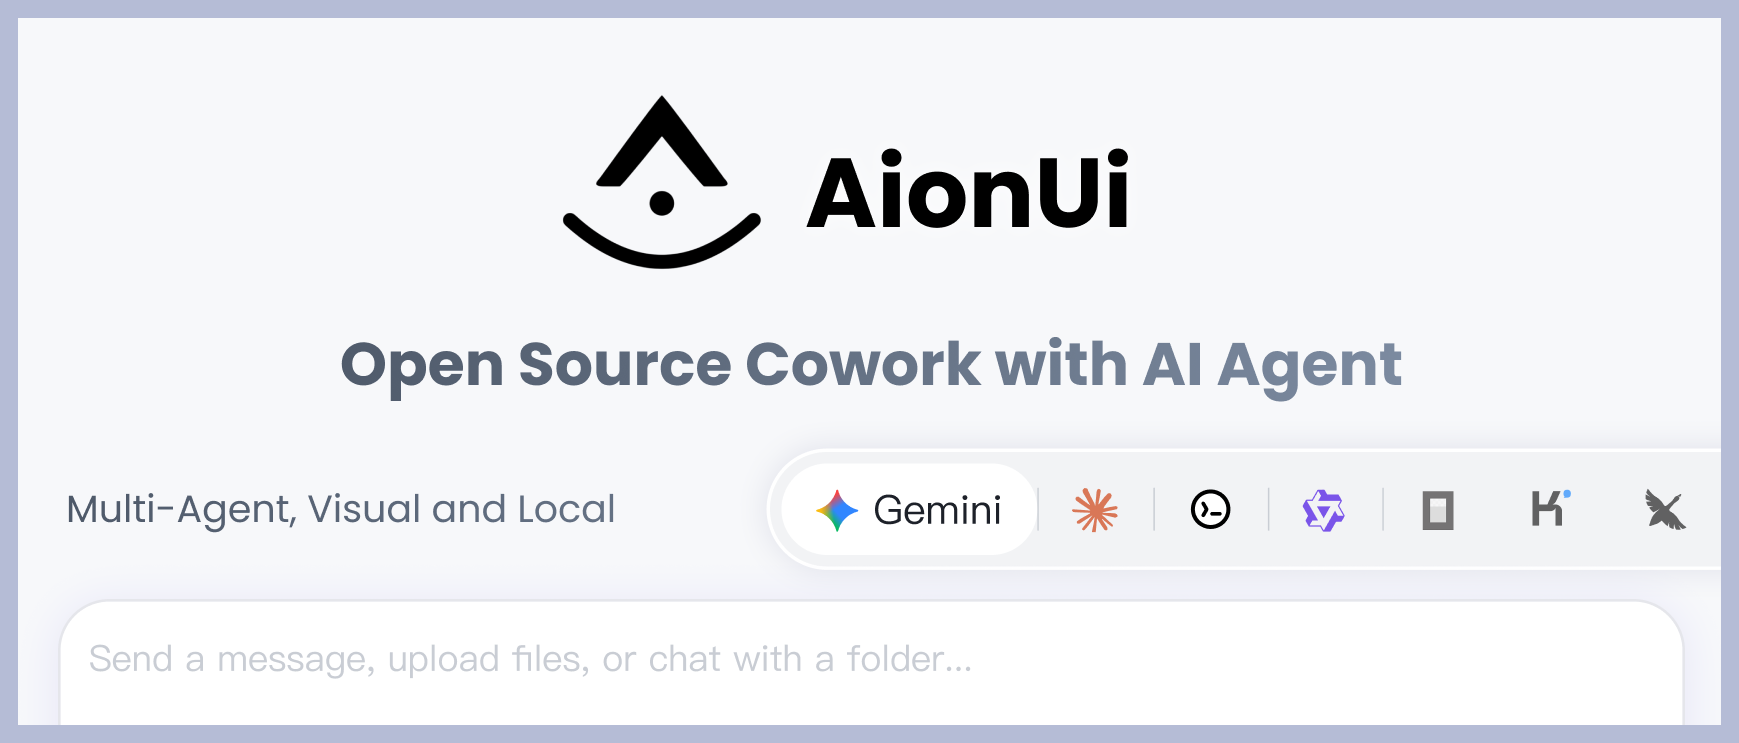
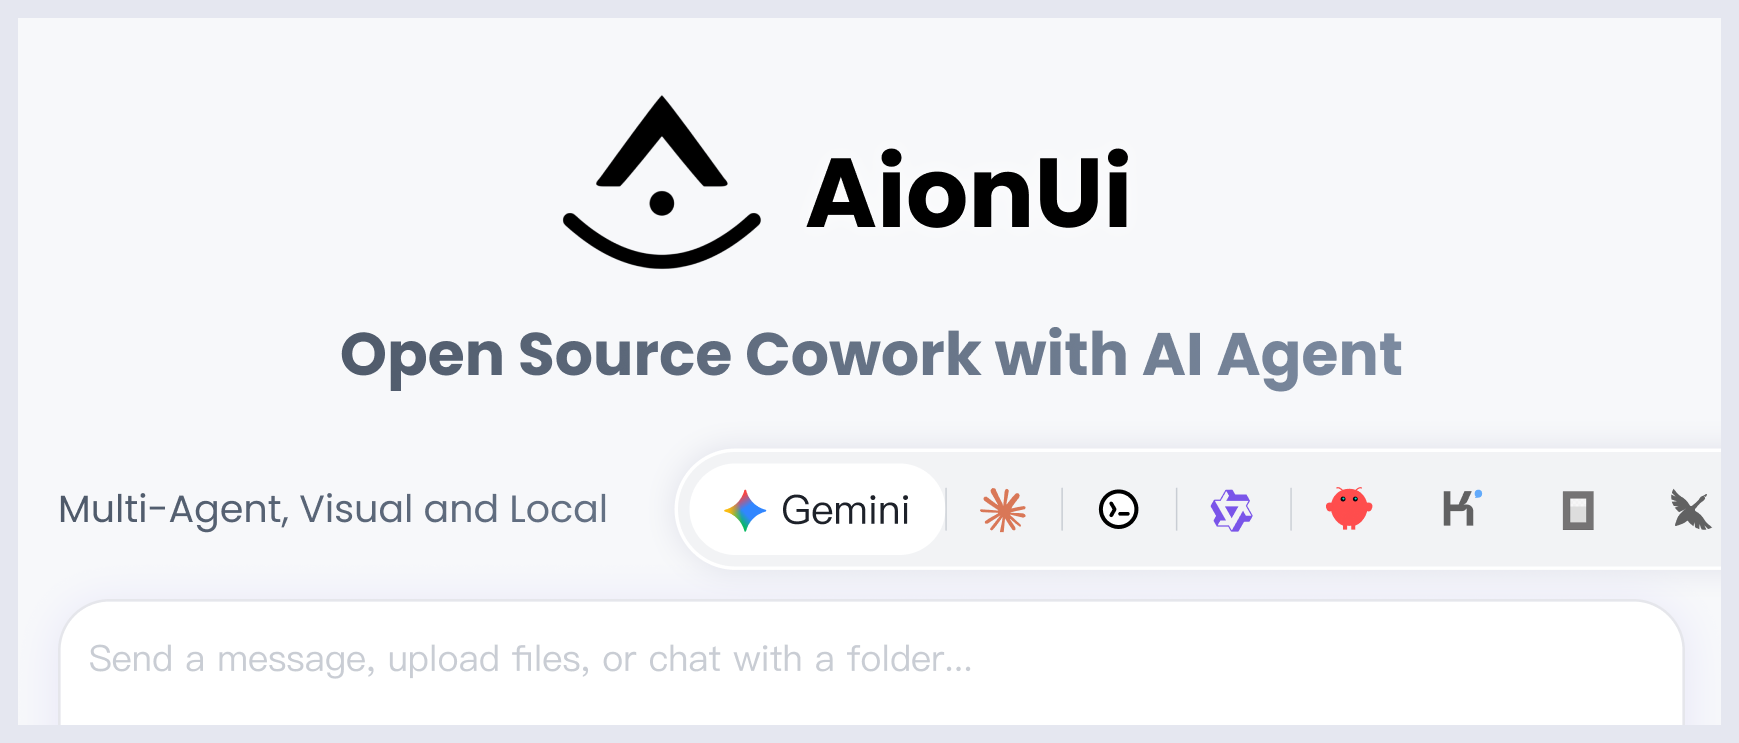
docs(readme): add OpenClaw multi-agent showcase across locales

Changed region(s): [[0.0, 0.0, 1.0, 1.0], [0.1863, 0.4334, 0.8074, 0.5572]]

diff --git a/readme.md b/readme.md
@@ -19,7 +19,7 @@
 ---
 
 <p align="center">
-  <strong>🚀 Cowork with Your AI, Gemini CLI, Claude Code, Codex, Qwen Code, Goose CLI, Auggie, and more</strong><br>
+  <strong>🚀 Cowork with Your AI, Gemini CLI, Claude Code, Codex, Qwen Code, Goose CLI, OpenClaw, Auggie, and more</strong><br>
   <em>User-friendly | Visual graphical interface | Multi-model support | Local data security</em>
 </p>
 
@@ -61,18 +61,19 @@
 
 ### 🤖 **Multi-Agent Mode - Cowork for Your Command-Line AI Tools, Unified Graphical Interface**
 
-_AionUi comes with built-in Gemini CLI, ready to use out of the box with no additional installation required; if you have already installed command-line tools like Gemini CLI, Claude Code, CodeX, Qwen Code, Goose AI, Augment Code, AionUi will automatically detect them and provide a unified graphical interface for a richer experience_
+AionUi provides a unified graphical interface for your command-line AI tools. Built-in Gemini CLI included, no setup required.
 
-- ✅ **Auto Detection + Unified Interface** - Automatically recognizes local CLI tools, provides a unified graphical interface, say goodbye to command line
-- ✅ **Local Storage + Multi-Session** - Conversations saved locally, supports multiple parallel sessions, each session with independent context
-
-<p align="center">
-  <img src="./resources/acp home page.gif" alt="Multi-Agent Mode Demo" width="800">
-</p>
+**Supported Tools:** Gemini CLI (built-in) • Claude Code • CodeX • Qwen Code • Goose AI • OpenClaw • Augment Code
 
 <p align="center">
-  <img src="./resources/openclawvia.png" alt="OpenClaw Integration in AionUi" width="800">
+  <img src="./resources/multi-agent支持openclaw.gif" alt="OpenClaw Integration in AionUi" width="800">
 </p>
+
+**Key Features:**
+
+- ✅ **Auto Detection** - Automatically recognizes and integrates local CLI tools
+- ✅ **Unified Interface** - One interface for all your AI tools, no more command line
+- ✅ **Local Storage + Multi-Session** - Conversations saved locally, multiple parallel sessions with independent context
 
 ---
 
@@ -87,10 +88,6 @@ AionUi provides multiple remote access methods:
   Access AionUi from any device via browser - phone, tablet, computer. Supports LAN, cross-network, and server deployment. You can log in by scanning a QR code or using account password, making it simple and convenient.
 
   > 💡 **Need detailed configuration guide?** Check out [Remote Internet Access Tutorial](https://github.com/iOfficeAI/AionUi/wiki/Remote-Internet-Access-Guide-Chinese)
-
-  <p align="center">
-    <img src="./resources/webui-remote.png" alt="WebUI Remote Access" width="800">
-  </p>
 
 - **📱 Chat Platform Integration**
   - **Telegram** - Chat with your AI assistant directly from Telegram on any device. Simple pairing code system for secure access.

diff --git a/readme_jp.md b/readme_jp.md
@@ -60,17 +60,19 @@
 
 ### 🤖 **マルチエージェントモード - あなたのコマンドラインAIツールのためのCowork、統一グラフィカルインターフェース**
 
-_AionUi には Gemini CLI を内蔵しており、ダウンロードしてすぐ使えます。追加インストール不要です。すでに Gemini CLI、Claude Code、CodeX、Qwen Code、Goose AI、Augment Code などのコマンドラインツールをインストールしている場合、AionUi が自動検出して統一されたグラフィカルインターフェースを提供し、体験がさらに豊かになります_
+AionUi はコマンドライン AI ツールに統一グラフィカルインターフェースを提供します。内蔵 Gemini CLI 付き、セットアップ不要。
 
-- ✅ **自動検出 + 統一インターフェース** - ローカルCLIツールを自動認識し、統一されたグラフィカルインターフェースを提供、コマンドラインに別れを告げる
-- ✅ **ローカル保存 + マルチセッション** - 会話をローカルに保存、マルチセッション並列をサポート、各セッションは独立したコンテキスト
-
-<p align="center">
-  <img src="./resources/acp%20home%20page.gif" alt="マルチエージェントモードデモ" width="800"></p>
+**サポートツール：** Gemini CLI（内蔵） • Claude Code • CodeX • Qwen Code • Goose AI • OpenClaw • Augment Code
 
 <p align="center">
-  <img src="./resources/openclawvia.png" alt="OpenClaw Integration in AionUi" width="800">
+  <img src="./resources/multi-agent支持openclaw.gif" alt="AionUi 中的 OpenClaw 集成" width="800">
 </p>
+
+**主要機能：**
+
+- ✅ **自動検出** - ローカル CLI ツールを自動認識し統合
+- ✅ **統一インターフェース** - すべての AI ツールを一つのインターフェースで管理、コマンドラインに別れを告げる
+- ✅ **ローカル保存 + マルチセッション** - 会話をローカルに保存、複数の並列セッションをサポート、各セッションは独立したコンテキスト
 
 ---
 

diff --git a/readme_es.md b/readme_es.md
@@ -60,17 +60,19 @@
 
 ### 🤖 **Modo multiagente - Cowork para tus herramientas de IA en línea de comandos, interfaz gráfica unificada**
 
-_AionUi incluye Gemini CLI de forma integrada, listo para usar desde la instalación sin extras. Si ya tienes herramientas de línea de comandos como Gemini CLI, Claude Code, CodeX, Qwen Code, Goose AI o Augment Code, AionUi las detecta automáticamente y ofrece una interfaz gráfica unificada para una experiencia más completa_
+AionUi proporciona una interfaz gráfica unificada para tus herramientas de IA en línea de comandos. Gemini CLI integrado incluido, sin configuración requerida.
 
-- ✅ **Detección automática + interfaz unificada** - Reconoce automáticamente las herramientas CLI locales y proporciona una interfaz gráfica unificada, despídete de la línea de comandos
-- ✅ **Almacenamiento local + multi-sesión** - Conversaciones guardadas localmente, admite múltiples sesiones en paralelo, cada una con contexto independiente
-
-<p align="center">
-  <img src="./resources/acp%20home%20page.gif" alt="Multi-Agent Mode Demo" width="800"></p>
+**Herramientas compatibles：** Gemini CLI (integrado) • Claude Code • CodeX • Qwen Code • Goose AI • OpenClaw • Augment Code
 
 <p align="center">
-  <img src="./resources/openclawvia.png" alt="OpenClaw Integration in AionUi" width="800">
+  <img src="./resources/multi-agent支持openclaw.gif" alt="AionUi 中的 OpenClaw 集成" width="800">
 </p>
+
+**Características principales：**
+
+- ✅ **Detección automática** - Reconoce e integra automáticamente las herramientas CLI locales
+- ✅ **Interfaz unificada** - Una interfaz para todas tus herramientas de IA, adiós a la línea de comandos
+- ✅ **Almacenamiento local + multi-sesión** - Conversaciones guardadas localmente, múltiples sesiones en paralelo con contexto independiente
 
 ---
 

diff --git a/readme_pt.md b/readme_pt.md
@@ -60,17 +60,19 @@
 
 ### 🤖 **Modo multiagente - Cowork para suas ferramentas de IA em linha de comando, interface gráfica unificada**
 
-_AionUi inclui o Gemini CLI integrado, pronto para usar desde a instalação sem extras. Se você já tem ferramentas de linha de comando como Gemini CLI, Claude Code, CodeX, Qwen Code, Goose AI ou Augment Code, o AionUi as detecta automaticamente e oferece uma interface gráfica unificada para uma experiência mais completa_
+AionUi fornece uma interface gráfica unificada para suas ferramentas de IA em linha de comando. Gemini CLI integrado incluído, sem configuração necessária.
 
-- ✅ **Detecção automática + interface unificada** - Reconhece automaticamente as ferramentas CLI locais e fornece uma interface gráfica unificada, dê adeus à linha de comando
-- ✅ **Armazenamento local + multissessão** - Conversas salvas localmente, suporta várias sessões em paralelo, cada uma com contexto independente
-
-<p align="center">
-  <img src="./resources/acp%20home%20page.gif" alt="Multi-Agent Mode Demo" width="800"></p>
+**Ferramentas compatíveis：** Gemini CLI (integrado) • Claude Code • CodeX • Qwen Code • Goose AI • OpenClaw • Augment Code
 
 <p align="center">
-  <img src="./resources/openclawvia.png" alt="OpenClaw Integration in AionUi" width="800">
+  <img src="./resources/multi-agent支持openclaw.gif" alt="AionUi 中的 OpenClaw 集成" width="800">
 </p>
+
+**Recursos principais：**
+
+- ✅ **Detecção automática** - Reconhece e integra automaticamente as ferramentas CLI locais
+- ✅ **Interface unificada** - Uma interface para todas as suas ferramentas de IA, adeus à linha de comando
+- ✅ **Armazenamento local + multissessão** - Conversas salvas localmente, várias sessões em paralelo com contexto independente
 
 ---
 

diff --git a/readme_ko.md b/readme_ko.md
@@ -60,17 +60,19 @@
 
 ### 🤖 **멀티 에이전트 모드 - 명령줄 AI 도구를 위한 통합 그래픽 인터페이스**
 
-_AionUi에는 Gemini CLI가 내장되어 있어 다운로드 즉시 사용 가능하며 추가 설치가 필요 없습니다. 이미 Gemini CLI, Claude Code, CodeX, Qwen Code, Goose AI, Augment Code 같은 명령줄 도구를 설치했다면 AionUi가 자동으로 감지해 통합 그래픽 인터페이스를 제공하고 더 풍부한 경험을 제공합니다_
+AionUi는 명령줄 AI 도구에 통합 그래픽 인터페이스를 제공합니다. 내장 Gemini CLI 포함, 설정 불필요.
 
-- ✅ **자동 감지 + 통합 인터페이스** - 로컬 CLI 도구를 자동으로 인식하고 통합 그래픽 인터페이스를 제공하여 명령줄과 작별
-- ✅ **로컬 저장 + 다중 세션** - 대화가 로컬에 저장되고 독립적인 컨텍스트를 가진 다중 병렬 세션 지원
-
-<p align="center">
-  <img src="./resources/acp%20home%20page.gif" alt="멀티 에이전트 모드 데모" width="800"></p>
+**지원 도구：** Gemini CLI（내장） • Claude Code • CodeX • Qwen Code • Goose AI • OpenClaw • Augment Code
 
 <p align="center">
-  <img src="./resources/openclawvia.png" alt="OpenClaw Integration in AionUi" width="800">
+  <img src="./resources/multi-agent支持openclaw.gif" alt="AionUi 中的 OpenClaw 集成" width="800">
 </p>
+
+**주요 기능：**
+
+- ✅ **자동 감지** - 로컬 CLI 도구를 자동으로 인식하고 통합
+- ✅ **통합 인터페이스** - 모든 AI 도구를 하나의 인터페이스로 관리, 명령줄과 작별
+- ✅ **로컬 저장 + 다중 세션** - 대화가 로컬에 저장되고 독립적인 컨텍스트를 가진 다중 병렬 세션 지원
 
 ---
 

diff --git a/readme_tr.md b/readme_tr.md
@@ -60,17 +60,19 @@
 
 ### 🤖 **Çoklu Ajan Modu - Komut Satırı Yapay Zeka Araçlarınız İçin Ortak Çalışma, Birleşik Grafik Arayüz**
 
-_Eğer Gemini CLI, Claude Code, CodeX, Qwen Code, Goose AI, Augment Code gibi komut satırı araçları yüklü ise, AionUi bunları otomatik olarak algılar ve birleşik bir grafik arayüz sunar_
+AionUi, komut satırı yapay zeka araçlarınız için birleşik bir grafik arayüz sağlar. Dahili Gemini CLI dahil, kurulum gerekmez.
 
-- ✅ **Otomatik Algılama + Birleşik Arayüz** - Yerel CLI araçlarını otomatik tanır, tek bir grafik arayüz sunar, komut satırına elveda deyin
-- ✅ **Yerel Depolama + Çoklu Oturum** - Konuşmalar yerel olarak kaydedilir, birden fazla paralel oturumu destekler, her oturum bağımsız bağlama sahiptir
-
-<p align="center">
-  <img src="./resources/acp%20home%20page.gif" alt="Çoklu Ajan Modu Demo" width="800"></p>
+**Desteklenen araçlar：** Gemini CLI (dahili) • Claude Code • CodeX • Qwen Code • Goose AI • OpenClaw • Augment Code
 
 <p align="center">
-  <img src="./resources/openclawvia.png" alt="OpenClaw Integration in AionUi" width="800">
+  <img src="./resources/multi-agent支持openclaw.gif" alt="AionUi 中的 OpenClaw 集成" width="800">
 </p>
+
+**Temel özellikler：**
+
+- ✅ **Otomatik algılama** - Yerel CLI araçlarını otomatik olarak tanır ve entegre eder
+- ✅ **Birleşik arayüz** - Tüm AI araçlarınız için tek bir arayüz, komut satırına elveda
+- ✅ **Yerel depolama + çoklu oturum** - Konuşmalar yerel olarak kaydedilir, bağımsız bağlamlara sahip birden fazla paralel oturum
 
 ---
 

diff --git a/readme_ch.md b/readme_ch.md
@@ -60,18 +60,19 @@
 
 ### 🤖 **多代理模式 - Cowork for 你的命令行 AI 工具，统一图形界面**
 
-_AionUi 内置 Gemini CLI，下载即用，无需额外安装；如果你已经安装了 Gemini CLI、Claude Code、CodeX、Qwen Code、Goose AI、OpenClaw、Augment Code 等命令行工具，AionUi 会自动检测并为它们提供统一的图形界面，体验更丰富_
+AionUi 为你的命令行 AI 工具提供统一图形界面。内置 Gemini CLI，开箱即用。
 
-- ✅ **自动检测 + 统一界面** - 自动识别本地 CLI 工具，提供统一的图形界面，告别命令行
-- ✅ **本地保存 + 多会话** - 对话保存在本地，支持多会话并行，每个会话独立上下文
-
-<p align="center">
-  <img src="./resources/acp%20home%20page.gif" alt="多代理模式演示" width="800">
-</p>
+**支持的工具：** Gemini CLI（内置） • Claude Code • CodeX • Qwen Code • Goose AI • OpenClaw • Augment Code
 
 <p align="center">
-  <img src="./resources/openclawvia.png" alt="AionUi 中的 OpenClaw 集成" width="800">
+  <img src="./resources/multi-agent支持openclaw.gif" alt="AionUi 中的 OpenClaw 集成" width="800">
 </p>
+
+**核心特性：**
+
+- ✅ **自动检测** - 自动识别并集成本地 CLI 工具
+- ✅ **统一界面** - 一个界面管理所有 AI 工具，告别命令行
+- ✅ **本地保存 + 多会话** - 对话本地保存，支持多会话并行，每个会话独立上下文
 
 ---
 

diff --git a/readme_tw.md b/readme_tw.md
@@ -60,17 +60,19 @@
 
 ### 🤖 **多代理模式 - 為您的命令列 AI 工具提供統一圖形介面**
 
-_AionUi 內建 Gemini CLI，下載即用，無需額外安裝；如果您已經安裝了 Gemini CLI、Claude Code、CodeX、Qwen Code、Goose AI、Augment Code 等命令列工具，AionUi 會自動檢測並為它們提供統一的圖形介面，體驗更豐富_
+AionUi 為您的命令列 AI 工具提供統一圖形介面。內建 Gemini CLI，開箱即用。
 
-- ✅ **自動檢測 + 統一介面** - 自動識別本地 CLI 工具，提供統一的圖形介面，告別命令列
-- ✅ **本地儲存 + 多會話** - 對話儲存在本地，支援多會話並行，每個會話獨立上下文
-
-<p align="center">
-  <img src="./resources/acp%20home%20page.gif" alt="多代理模式示範" width="800"></p>
+**支援的工具：** Gemini CLI（內建） • Claude Code • CodeX • Qwen Code • Goose AI • OpenClaw • Augment Code
 
 <p align="center">
-  <img src="./resources/openclawvia.png" alt="OpenClaw Integration in AionUi" width="800">
+  <img src="./resources/multi-agent支持openclaw.gif" alt="AionUi 中的 OpenClaw 集成" width="800">
 </p>
+
+**核心特性：**
+
+- ✅ **自動檢測** - 自動識別並整合本地 CLI 工具
+- ✅ **統一介面** - 一個介面管理所有 AI 工具，告別命令列
+- ✅ **本地保存 + 多會話** - 對話本地保存，支援多會話並行，每個會話獨立上下文
 
 ---
 
